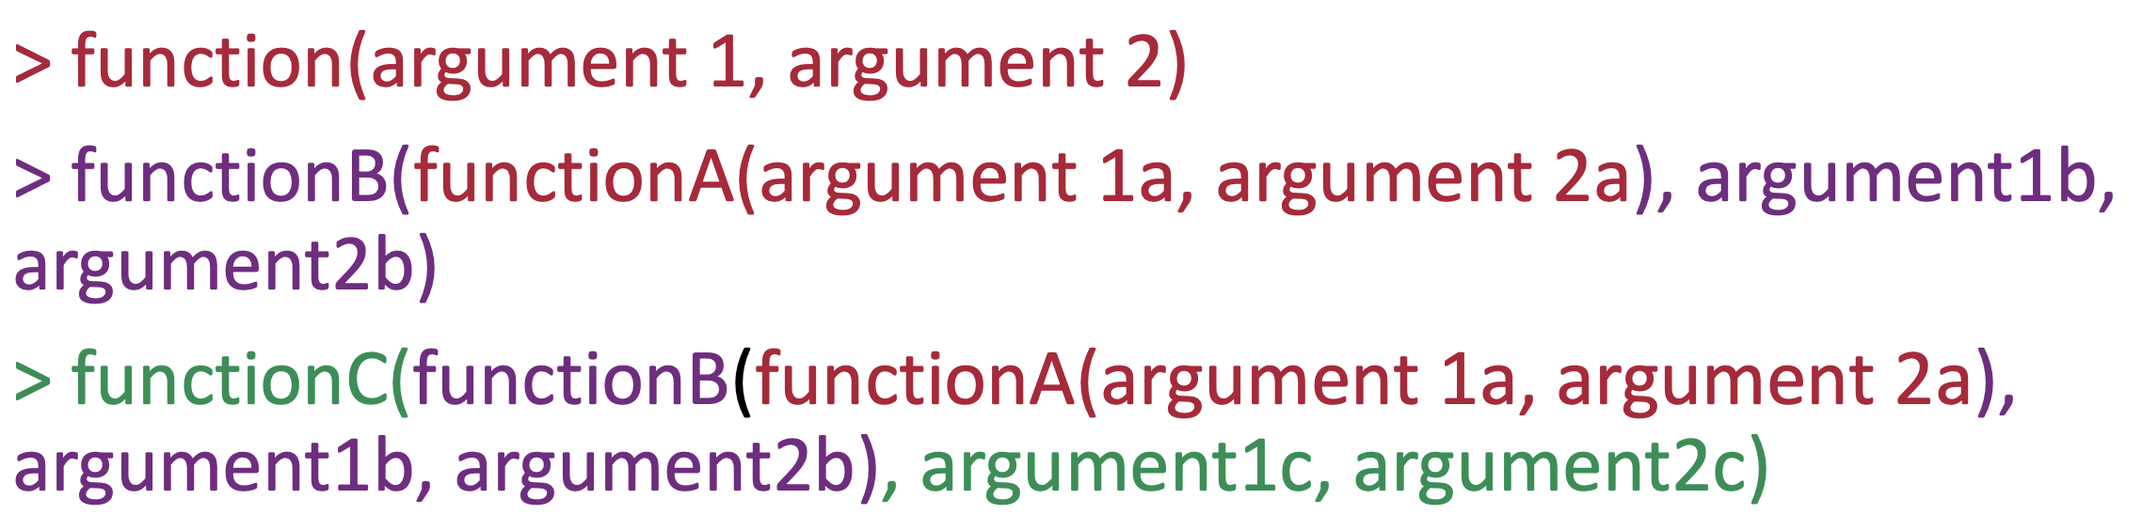
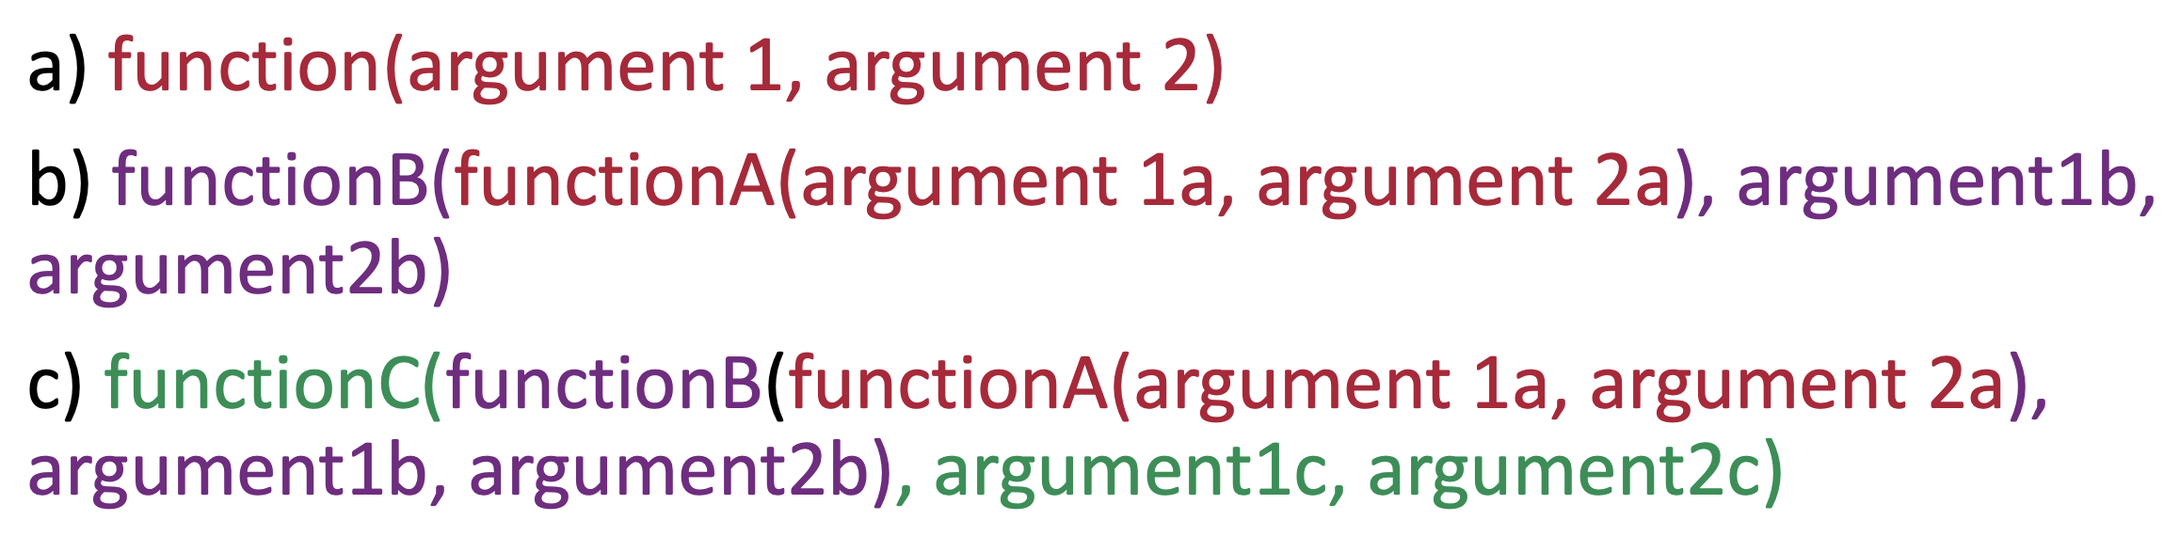
Minor improvements to Ch. 7

diff --git a/docs/7_VariablesFunctions.html b/docs/7_VariablesFunctions.html
@@ -253,7 +253,7 @@ div.csl-indent {
     <h2 id="toc-title">Table of contents</h2>
    
   <ul>
-  <li><a href="#inspecting-tabular-data" id="toc-inspecting-tabular-data" class="nav-link active" data-scroll-target="#inspecting-tabular-data"><span class="header-section-number">7.1</span> Inspecting tabular data</a></li>
+  <li><a href="#inspecting-a-dataset" id="toc-inspecting-a-dataset" class="nav-link active" data-scroll-target="#inspecting-a-dataset"><span class="header-section-number">7.1</span> Inspecting a dataset</a></li>
   <li><a href="#variables-and-r-data-types" id="toc-variables-and-r-data-types" class="nav-link" data-scroll-target="#variables-and-r-data-types"><span class="header-section-number">7.2</span> Variables and <code>R</code> data types</a></li>
   <li><a href="#accessing-individual-data-points" id="toc-accessing-individual-data-points" class="nav-link" data-scroll-target="#accessing-individual-data-points"><span class="header-section-number">7.3</span> Accessing individual data points</a></li>
   <li><a href="#using-built-in-r-functions" id="toc-using-built-in-r-functions" class="nav-link" data-scroll-target="#using-built-in-r-functions"><span class="header-section-number">7.4</span> Using built-in <code>R</code> functions</a>
@@ -300,29 +300,29 @@ Prerequisites
 </div>
 </div>
 <div class="callout-body-container callout-body">
-<p>In this chapter and the following, all analyses are based on data from:</p>
+<p>In this chapter and the following chapters, all analyses are based on data from:</p>
 <blockquote class="blockquote">
 <p>Dąbrowska, Ewa. 2019. Experience, Aptitude, and Individual Differences in Linguistic Attainment: A Comparison of Native and Nonnative Speakers. Language Learning 69(S1). 72–100. <a href="https://doi.org/10.1111/lang.12323" class="uri">https://doi.org/10.1111/lang.12323</a>.</p>
 </blockquote>
-<p>You will only be able to reproduce the analyses and answer the quiz questions from this chapter if you have successfully imported the two data sets from <span class="citation" data-cites="DabrowskaExperienceAptitudeIndividual2019">Dąbrowska (<a href="99_references.html#ref-DabrowskaExperienceAptitudeIndividual2019" role="doc-biblioref">2019</a>)</span>. To import the data, follow the instructions from <a href="6_ImpoRtingData.html#sec-RProject" class="quarto-xref"><span>Section 6.3</span></a> to <a href="6_ImpoRtingData.html#sec-ImportingDataCSV" class="quarto-xref"><span>Section 6.5</span></a> and complete Task 1.</p>
+<p>You will only be able to reproduce the analyses and answer the quiz questions from this chapter if you have successfully imported the two datasets from <span class="citation" data-cites="DabrowskaExperienceAptitudeIndividual2019">Dąbrowska (<a href="99_references.html#ref-DabrowskaExperienceAptitudeIndividual2019" role="doc-biblioref">2019</a>)</span>. To import the datasets, follow the instructions from <a href="6_ImpoRtingData.html#sec-RProject" class="quarto-xref"><span>Section 6.3</span></a> to <a href="6_ImpoRtingData.html#sec-ImportingDataCSV" class="quarto-xref"><span>Section 6.5</span></a> and complete Task 1.</p>
 </div>
 </div>
 <section id="chapter-overview" class="level4 unnumbered">
 <h4 class="unnumbered anchored" data-anchor-id="chapter-overview"><strong>Chapter overview</strong></h4>
 <p>In this chapter, you will learn how to:</p>
 <ul>
-<li>Use base <code>R</code> functions to inspect tabular data</li>
-<li>Inspect and access individual variables</li>
-<li>Access individual data points</li>
-<li>Use simple base <code>R</code> functions to inspect variables</li>
-<li>Change the default arguments of functions</li>
+<li>Use base <code>R</code> functions to inspect a dataset</li>
+<li>Inspect and access individual variables from a dataset</li>
+<li>Access individual data points from a dataset</li>
+<li>Use simple base <code>R</code> functions to describe variables</li>
+<li>Look up and change the default arguments of functions</li>
 <li>Combine functions using two methods</li>
 </ul>
 </section>
-<section id="inspecting-tabular-data" class="level2" data-number="7.1">
-<h2 data-number="7.1" class="anchored" data-anchor-id="inspecting-tabular-data"><span class="header-section-number">7.1</span> Inspecting tabular data</h2>
-<p>In <a href="6_ImpoRtingData.html#sec-ImportingErrors" class="quarto-xref"><span>Section 6.6</span></a>, we saw that we can use the <code>View()</code> function to display tabular data in a format that resembles that of a spreadsheet programme.</p>
-<p>This particular dataset is both long and wide so you will need to scroll in both directions to view all the data. RStudio also provides a filter option and a search tool (see <a href="#fig-ViewData1" class="quarto-xref">Figure&nbsp;<span>7.1</span></a>). Note that both can only be used for visual inspection. You cannot alter the dataset in any way using these tools.</p>
+<section id="inspecting-a-dataset" class="level2" data-number="7.1">
+<h2 data-number="7.1" class="anchored" data-anchor-id="inspecting-a-dataset"><span class="header-section-number">7.1</span> Inspecting a dataset</h2>
+<p>In <a href="6_ImpoRtingData.html#sec-ImportingErrors" class="quarto-xref"><span>Section 6.6</span></a>, we saw that we can use the <code>View()</code> function to display tabular data in a format that resembles that of a spreadsheet programme (see <a href="#fig-ViewData1" class="quarto-xref">Figure&nbsp;<span>7.1</span></a>).</p>
+<p>The two datasets from <span class="citation" data-cites="DabrowskaExperienceAptitudeIndividual2019">Dąbrowska (<a href="99_references.html#ref-DabrowskaExperienceAptitudeIndividual2019" role="doc-biblioref">2019</a>)</span> are both long and wide so you will need to scroll in both directions to view all the data. RStudio also provides a filter option and a search tool (see <a href="#fig-ViewData1" class="quarto-xref">Figure&nbsp;<span>7.1</span></a>). Note that both of these tools can only be used to visually inspect the data. You cannot alter the dataset in any way using these tools (and that’s a good thing!).</p>
 <div class="cell">
 <div class="sourceCode cell-code" id="cb1"><pre class="sourceCode r code-with-copy"><code class="sourceCode r"><span id="cb1-1"><a href="#cb1-1" aria-hidden="true" tabindex="-1"></a><span class="fu">View</span>(L1.data)</span></code><button title="Copy to Clipboard" class="code-copy-button"><i class="bi"></i></button></pre></div>
 </div>
@@ -371,7 +371,7 @@ Quiz time!
 <p>&nbsp;</p>
 </div>
 </div>
-<p>In practice, it is often useful to printing subsets of a dataset in the Console to quickly check the sanity of the data. To do so, we can use the function <code>head()</code> that prints the first six rows of tabular data.</p>
+<p>In practice, it is often useful to printing subsets of a dataset in the Console to quickly check the sanity of the data. To do so, we can use the function <code>head()</code> that prints the first six rows of a tabular dataset.</p>
 <div class="cell">
 <div class="sourceCode cell-code" id="cb2"><pre class="sourceCode r code-with-copy"><code class="sourceCode r"><span id="cb2-1"><a href="#cb2-1" aria-hidden="true" tabindex="-1"></a><span class="fu">head</span>(L1.data)</span></code><button title="Copy to Clipboard" class="code-copy-button"><i class="bi"></i></button></pre></div>
 <div class="cell-output-display">
@@ -693,7 +693,7 @@ Quiz time!
 </section>
 <section id="variables-and-r-data-types" class="level2" data-number="7.2">
 <h2 data-number="7.2" class="anchored" data-anchor-id="variables-and-r-data-types"><span class="header-section-number">7.2</span> Variables and <code>R</code> data types</h2>
-<p>In tidy data formats (see **), each row corresponds to one observation and each column to a variable. Each cell, therefore, corresponds to a single data point, which is the value of a specific variable (column) for a specific observation (row). As we will see in the following chapters, this data structure allows for efficient and intuitive data manipulation, analysis, and visualisation.</p>
+<p>In tidy data formats (see Chapter 8), each row corresponds to one observation and each column to a variable. Each cell, therefore, corresponds to a single data point, which is the value of a specific variable (column) for a specific observation (row). As we will see in the following chapters, this data structure allows for efficient and intuitive data manipulation, analysis, and visualisation.</p>
 <p>The <code>names()</code> functions returns the names of all of the columns of a data frame. Given that the datasets from <span class="citation" data-cites="DabrowskaExperienceAptitudeIndividual2019">Dąbrowska (<a href="99_references.html#ref-DabrowskaExperienceAptitudeIndividual2019" role="doc-biblioref">2019</a>)</span> are ‘tidy’, this means that <code>names(L1.data)</code> returns a list of all the variables in the L1 dataset.</p>
 <div class="cell">
 <div class="sourceCode cell-code" id="cb3"><pre class="sourceCode r code-with-copy"><code class="sourceCode r"><span id="cb3-1"><a href="#cb3-1" aria-hidden="true" tabindex="-1"></a><span class="fu">names</span>(L1.data)</span></code><button title="Copy to Clipboard" class="code-copy-button"><i class="bi"></i></button></pre></div>
@@ -1334,13 +1334,13 @@ Quiz time!
 </div>
 <p>In this example, the argument <code>digits = 2</code> belongs to the outer function <code>round()</code>; hence it must be placed within the outer set of brackets.</p>
 <p>In theory, you can nest as many functions as you like, but things can get quite chaotic after more than a couple of functions. You need to make sure that you can trace back which arguments and which brackets belong to which function (see <a href="#fig-NestedFunctions" class="quarto-xref">Figure&nbsp;<span>7.2</span></a>).</p>
-<div id="fig-NestedFunctions" class="quarto-figure quarto-figure-center quarto-float anchored" alt="The text reads like this: function(argument 1, argument 2) functionB(functionA(argument 1a, argument 2a), argument1b, argument2b) functionC(functionB(functionA(argument 1a, argument 2a), argument1b, argument2b), argument1c, argument2c).">
+<div id="fig-NestedFunctions" class="quarto-figure quarto-figure-center quarto-float anchored" alt="The pseudo code reads like this a) function(argument 1, argument 2), b) functionB(functionA(argument 1a, argument 2a), argument1b, argument2b), c) functionC(functionB(functionA(argument 1a, argument 2a), argument1b, argument2b), argument1c, argument2c).">
 <figure class="quarto-float quarto-float-fig figure">
 <div aria-describedby="fig-NestedFunctions-caption-0ceaefa1-69ba-4598-a22c-09a6ac19f8ca">
-<a href="images/NestedFunctions.png" class="lightbox" data-gallery="quarto-lightbox-gallery-2" title="Figure&nbsp;7.2: A schematic representations of one function, two nested functions and three nested functions, each with two arguments"><img src="images/NestedFunctions.png" class="img-fluid figure-img" alt="The text reads like this: function(argument 1, argument 2) functionB(functionA(argument 1a, argument 2a), argument1b, argument2b) functionC(functionB(functionA(argument 1a, argument 2a), argument1b, argument2b), argument1c, argument2c)."></a>
+<a href="images/NestedFunctions.png" class="lightbox" data-gallery="quarto-lightbox-gallery-2" title="Figure&nbsp;7.2: A schematic representations of a) one function with two arguments, b) two nested functions each with two arguments, and c) three nested functions each with two arguments"><img src="images/NestedFunctions.png" class="img-fluid figure-img" alt="The pseudo code reads like this a) function(argument 1, argument 2), b) functionB(functionA(argument 1a, argument 2a), argument1b, argument2b), c) functionC(functionB(functionA(argument 1a, argument 2a), argument1b, argument2b), argument1c, argument2c)."></a>
 </div>
 <figcaption class="quarto-float-caption-bottom quarto-float-caption quarto-float-fig" id="fig-NestedFunctions-caption-0ceaefa1-69ba-4598-a22c-09a6ac19f8ca">
-Figure&nbsp;7.2: A schematic representations of one function, two nested functions and three nested functions, each with two arguments
+Figure&nbsp;7.2: A schematic representations of a) one function with two arguments, b) two nested functions each with two arguments, and c) three nested functions each with two arguments
 </figcaption>
 </figure>
 </div>
@@ -1354,18 +1354,20 @@ Time to think!
 </div>
 </div>
 <div class="callout-body-container callout-body">
-<p>Consider the two sets of nested functions below. Without running them, can you tell which of the two lines of code will output the square root of L1 participant’s average age to two decimal places?</p>
+<p>Consider the three lines of code below. Without running them, can you tell which of the three lines of code will output the square root of L1 participant’s average age to two decimal places?</p>
 <div class="cell">
-<div class="sourceCode cell-code" id="cb54"><pre class="sourceCode r code-with-copy"><code class="sourceCode r"><span id="cb54-1"><a href="#cb54-1" aria-hidden="true" tabindex="-1"></a><span class="fu">sqrt</span>(<span class="fu">round</span>(<span class="fu">mean</span>(L1.Age), <span class="at">digits =</span> <span class="dv">2</span>))</span>
-<span id="cb54-2"><a href="#cb54-2" aria-hidden="true" tabindex="-1"></a><span class="fu">round</span>(<span class="fu">sqrt</span>(<span class="fu">mean</span>(L1.Age)), <span class="at">digits =</span> <span class="dv">2</span>)</span></code><button title="Copy to Clipboard" class="code-copy-button"><i class="bi"></i></button></pre></div>
+<div class="sourceCode cell-code" id="cb54"><pre class="sourceCode r code-with-copy"><code class="sourceCode r"><span id="cb54-1"><a href="#cb54-1" aria-hidden="true" tabindex="-1"></a><span class="dv">1</span><span class="er">)</span> <span class="fu">round</span>(<span class="fu">sqrt</span>(<span class="fu">mean</span>(L1.Age) <span class="at">digits =</span> <span class="dv">2</span>))</span>
+<span id="cb54-2"><a href="#cb54-2" aria-hidden="true" tabindex="-1"></a><span class="dv">2</span><span class="er">)</span> <span class="fu">sqrt</span>(<span class="fu">round</span>(<span class="fu">mean</span>(L1.Age), <span class="at">digits =</span> <span class="dv">2</span>))</span>
+<span id="cb54-3"><a href="#cb54-3" aria-hidden="true" tabindex="-1"></a><span class="dv">3</span><span class="er">)</span> <span class="fu">round</span>(<span class="fu">sqrt</span>(<span class="fu">mean</span>(L1.Age)), <span class="at">digits =</span> <span class="dv">2</span>)</span></code><button title="Copy to Clipboard" class="code-copy-button"><i class="bi"></i></button></pre></div>
 </div>
-<p>The first line actually outputs <code>6.126989</code>, which has more than two decimal places! This is because <code>R</code> interprets the functions from the inside out: first, it calculates the mean value, then it rounds that off to two decimal places, then this outputs the square root of that value. The second line, in contrast, does the rounding operation as the last step. Note that, in these two lines of code, the brackets around the argument <code>digits = 2</code> are also located in different places. It is very easy to make bracketing errors when writing code and especially so when nesting functions (see <a href="#fig-NestedFunctions" class="quarto-xref">Figure&nbsp;<span>7.2</span></a>).</p>
+<p>The first line will return an “unexpected symbol” error because it is missing a comma before the argument <code>digits = 2</code>. The second line actually outputs <code>6.126989</code>, which has more than two decimal places! This is because <code>R</code> interprets the functions from the inside out: first, it calculates the mean value, then it rounds that off to two decimal places, and only then does it compute the square root of that rounded off value. The third line, in contrast, does the rounding operation as the last step. Note that, in the two lines of code that do not produce an error, the brackets around the argument <code>digits = 2</code> are also located in different places.</p>
+<p>It is very easy to make bracketing errors when writing code and especially so when nesting functions (see <a href="#fig-NestedFunctions" class="quarto-xref">Figure&nbsp;<span>7.2</span></a>). Watch your commas and brackets (see also <a href="5_GettingStaRted.html#sec-Errors" class="quarto-xref"><span>Section 5.6</span></a>)!</p>
 </div>
 </div>
 </section>
 <section id="piped-functions" class="level3" data-number="7.5.2">
 <h3 data-number="7.5.2" class="anchored" data-anchor-id="piped-functions"><span class="header-section-number">7.5.2</span> Piped Functions</h3>
-<p>If you found all these brackets overwhelming: fear not! There is a second method for combining functions, which is more convenient and much easier to decipher. It involves the pipe operator, which in <code>R</code> is <code>|&gt;</code>.<a href="#fn1" class="footnote-ref" id="fnref1" role="doc-noteref"><sup>1</sup></a></p>
+<p>If you found all these brackets overwhelming: fear not! There is a second method for combining functions in <code>R</code>, which is often more convenient and almost always easier to decipher. It involves the pipe operator, which in <code>R</code> is <code>|&gt;</code>.<a href="#fn1" class="footnote-ref" id="fnref1" role="doc-noteref"><sup>1</sup></a></p>
 <p>The <code>|&gt;</code> operator passes the output of one function on to the first argument of the next function. This allows us to chain multiple functions together in a much more intuitive way.</p>
 <div class="cell">
 <div class="sourceCode cell-code" id="cb55"><pre class="sourceCode r code-with-copy"><code class="sourceCode r"><span id="cb55-1"><a href="#cb55-1" aria-hidden="true" tabindex="-1"></a>L1.Age <span class="sc">|&gt;</span> </span>
@@ -1386,13 +1388,13 @@ Time to think!
 </div>
 </div>
 <p>Like many of the relational operators we saw in <a href="5_GettingStaRted.html#sec-RelationalOperators" class="quarto-xref"><span>Section 5.5</span></a>, the <code>R</code> pipe is a combination of two symbols, the computer pipe symbol <code>|</code> and the right angle bracket <code>&gt;</code>. Don’t worry if you’re not sure where these two symbols are on your keyboard as RStudio has a handy shortcut for you: <code>Ctrl/Cmd + Shift + M</code><a href="#fn2" class="footnote-ref" id="fnref2" role="doc-noteref"><sup>2</sup></a> (see <a href="#fig-Pipes" class="quarto-xref">Figure&nbsp;<span>7.3</span></a>). I strongly recommend that you write this shortcut on a prominent post-it and learn it asap, as you will need it a lot when you are working in <code>R</code>!</p>
-<div id="fig-Pipes" class="quarto-figure quarto-figure-center quarto-float anchored">
+<div id="fig-Pipes" class="quarto-figure quarto-figure-center quarto-float anchored" alt="Collation of two images: One is a famous painting by René Magritte of a pipe with the caption &quot;Ceci n'est pas une pipe&quot; [This is not a pipe in French], and another, in the same style and colours, with the native R pipe operator and its keyboard shortcut with the caption &quot;Ceci n'est pas une pipe&quot; [This is a pipe in French].">
 <figure class="quarto-float quarto-float-fig figure">
 <div aria-describedby="fig-Pipes-caption-0ceaefa1-69ba-4598-a22c-09a6ac19f8ca">
-<a href="images/NativeRPipe.png" class="lightbox" data-gallery="quarto-lightbox-gallery-3" title="Figure&nbsp;7.3: Remix of Henri Matisse’s “La Trahison des images” (1928-1929) with the native R pipe and its RStudio shortcut (based on an image from Wikiart.org). This image is licensed under CC-BY."><img src="images/NativeRPipe.png" class="img-fluid figure-img"></a>
+<a href="images/NativeRPipe.png" class="lightbox" data-gallery="quarto-lightbox-gallery-3" title="Figure&nbsp;7.3: Remix of René Magritte’s “La Trahison des images” (1928-1929) with the native R pipe and its RStudio shortcut (based on an image from Wikiart.org). This image is licensed under CC-BY."><img src="images/NativeRPipe.png" class="img-fluid figure-img" alt="Collation of two images: One is a famous painting by René Magritte of a pipe with the caption &quot;Ceci n'est pas une pipe&quot; [This is not a pipe in French], and another, in the same style and colours, with the native R pipe operator and its keyboard shortcut with the caption &quot;Ceci n'est pas une pipe&quot; [This is a pipe in French]."></a>
 </div>
 <figcaption class="quarto-float-caption-bottom quarto-float-caption quarto-float-fig" id="fig-Pipes-caption-0ceaefa1-69ba-4598-a22c-09a6ac19f8ca">
-Figure&nbsp;7.3: Remix of Henri Matisse’s “La Trahison des images” (1928-1929) with the native <code>R</code> pipe and its RStudio shortcut (based on an image from <a href="https://www.wikiart.org/en/rene-magritte/the-treachery-of-images-this-is-not-a-pipe-1948">Wikiart.org</a>). This image is licensed under <a href="https://creativecommons.org/licenses/by/4.0/">CC-BY</a><a href="#fn3" class="footnote-ref" id="fnref3" role="doc-noteref"><sup>3</sup></a>.
+Figure&nbsp;7.3: Remix of René Magritte’s “La Trahison des images” (1928-1929) with the native <code>R</code> pipe and its RStudio shortcut (based on an image from <a href="https://www.wikiart.org/en/rene-magritte/the-treachery-of-images-this-is-not-a-pipe-1948">Wikiart.org</a>). This image is licensed under <a href="https://creativecommons.org/licenses/by/4.0/">CC-BY</a><a href="#fn3" class="footnote-ref" id="fnref3" role="doc-noteref"><sup>3</sup></a>.
 </figcaption>
 </figure>
 </div>
@@ -2105,7 +2107,7 @@ window.document.addEventListener("DOMContentLoaded", function (event) {
 </div>
   </div>
 </footer>
-<script>var lightboxQuarto = GLightbox({"selector":".lightbox","openEffect":"zoom","loop":false,"closeEffect":"zoom","descPosition":"bottom"});
+<script>var lightboxQuarto = GLightbox({"loop":false,"closeEffect":"zoom","descPosition":"bottom","selector":".lightbox","openEffect":"zoom"});
 window.onload = () => {
   lightboxQuarto.on('slide_before_load', (data) => {
     const { slideIndex, slideNode, slideConfig, player, trigger } = data;

diff --git a/docs/4_InstallingR.html b/docs/4_InstallingR.html
@@ -337,7 +337,7 @@ Figure&nbsp;4.1: “<a href="https://www.flickr.com/photos/47264866@N00/94551410
 </div>
 </blockquote>
 <p>Last but not least, in choosing to learn <code>R</code>, you are entering a vibrant community of users. As an open-source programming environment, <code>R</code> is the product of many different people’s contributions. Everyday, new packages, functions, and resources are being developed, improved, and shared with the community. Given that <code>R</code> has evolved into one of the most popular languages for scientific programming <span class="citation" data-cites="WinterStatisticsLinguistsIntroduction2019">(and has become “the de facto standard in the language sciences” <a href="99_references.html#ref-WinterStatisticsLinguistsIntroduction2019" role="doc-biblioref">Winter 2019: xiii</a>)</span>, many of these have been created by scientists and are particularly well-suited to research workflows. Moreover, the <code>R</code> community is known for being welcoming, supportive, and inclusive (sadly, the same cannot be said of all communities in the computing world). This is reflected in the strong presence of many community-led initiatives such as <a href="https://rladies.org/">RLadies</a> and <a href="https://rainbowr.netlify.app/">RainbowR</a>, which encourage under-represented groups to participate in and contribute to the <code>R</code> community. 🤗</p>
-<div id="fig-RLadies" class="quarto-figure quarto-figure-center quarto-float anchored" alt="Hex sticker logo showing the R logo painted in the colours of the rainbow and the transgender flags" data-fig-align="center">
+<div id="fig-RLadies" class="quarto-figure quarto-figure-center quarto-float anchored" data-fig-align="center" alt="Hex sticker logo showing the R logo painted in the colours of the rainbow and the transgender flags">
 <figure class="quarto-float quarto-float-fig figure">
 <div aria-describedby="fig-RLadies-caption-0ceaefa1-69ba-4598-a22c-09a6ac19f8ca">
 <a href="images/rladiesrp_logo.png" class="lightbox" data-gallery="quarto-lightbox-gallery-2" title="Figure&nbsp;4.2: Logo of the RLadies Ribeirão Preto meet-up group, one of many RLadies chapters."><img src="images/rladiesrp_logo.png" class="img-fluid quarto-figure quarto-figure-center figure-img" alt="Hex sticker logo showing the R logo painted in the colours of the rainbow and the transgender flags" width="250"></a>
@@ -1642,7 +1642,7 @@ window.document.addEventListener("DOMContentLoaded", function (event) {
 </div>
   </div>
 </footer>
-<script>var lightboxQuarto = GLightbox({"openEffect":"zoom","closeEffect":"zoom","descPosition":"bottom","selector":".lightbox","loop":false});
+<script>var lightboxQuarto = GLightbox({"loop":false,"closeEffect":"zoom","descPosition":"bottom","selector":".lightbox","openEffect":"zoom"});
 window.onload = () => {
   lightboxQuarto.on('slide_before_load', (data) => {
     const { slideIndex, slideNode, slideConfig, player, trigger } = data;

diff --git a/docs/index.html b/docs/index.html
@@ -7,7 +7,7 @@
 <meta name="viewport" content="width=device-width, initial-scale=1.0, user-scalable=yes">
 
 <meta name="author" content="Elen Le Foll">
-<meta name="dcterms.date" content="2024-08-16">
+<meta name="dcterms.date" content="2024-08-17">
 
 <title>Data Analysis for the Language Sciences</title>
 <style>
@@ -219,7 +219,7 @@ div.csl-indent {
     <h2 id="toc-title">Table of contents</h2>
    
   <ul>
-  <li><a href="#sec-Preface" id="toc-sec-Preface" class="nav-link active" data-scroll-target="#sec-Preface">Preface</a>
+  <li><a href="#preface" id="toc-preface" class="nav-link active" data-scroll-target="#preface">Preface</a>
   <ul class="collapse">
   <li><a href="#what-is-this-book-about" id="toc-what-is-this-book-about" class="nav-link" data-scroll-target="#what-is-this-book-about">What is this book about?</a></li>
   <li><a href="#who-is-this-book-for" id="toc-who-is-this-book-for" class="nav-link" data-scroll-target="#who-is-this-book-for">Who is this book for?</a></li>
@@ -253,7 +253,7 @@ div.csl-indent {
     <div>
     <div class="quarto-title-meta-heading">Published</div>
     <div class="quarto-title-meta-contents">
-      <p class="date">August 16, 2024</p>
+      <p class="date">August 17, 2024</p>
     </div>
   </div>
   
@@ -265,7 +265,7 @@ div.csl-indent {
 </header>
 
 
-<section id="sec-Preface" class="level1 unnumbered">
+<section id="preface" class="level1 unnumbered">
 <h1 class="unnumbered">Preface</h1>
 <div class="callout callout-style-default callout-warning callout-titled">
 <div class="callout-header d-flex align-content-center">
@@ -945,7 +945,7 @@ window.document.addEventListener("DOMContentLoaded", function (event) {
 </div>
   </div>
 </footer>
-<script>var lightboxQuarto = GLightbox({"closeEffect":"zoom","selector":".lightbox","openEffect":"zoom","loop":false,"descPosition":"bottom"});
+<script>var lightboxQuarto = GLightbox({"descPosition":"bottom","openEffect":"zoom","selector":".lightbox","closeEffect":"zoom","loop":false});
 window.onload = () => {
   lightboxQuarto.on('slide_before_load', (data) => {
     const { slideIndex, slideNode, slideConfig, player, trigger } = data;

diff --git a/docs/1_OpenScholarship.html b/docs/1_OpenScholarship.html
@@ -460,7 +460,7 @@ Going further
 <li><strong>R</strong>emix – the right to combine the original or revised content with other open materials to create something new.</li>
 <li><strong>R</strong>edistribute – the right to share copies of the original content, any revisions, and remixes with others (e.g., give a copy of the content to a friend).</li>
 </ol>
-<div id="fig-OER" class="quarto-figure quarto-figure-center quarto-float anchored" alt="Sketchnote Grafik zu Open Educational Resources" data-fig-align="center">
+<div id="fig-OER" class="quarto-figure quarto-figure-center quarto-float anchored" data-fig-align="center" alt="Sketchnote Grafik zu Open Educational Resources">
 <figure class="quarto-float quarto-float-fig figure">
 <div aria-describedby="fig-OER-caption-0ceaefa1-69ba-4598-a22c-09a6ac19f8ca">
 <a href="images/oer.jpg" class="lightbox" data-gallery="quarto-lightbox-gallery-2" title="Figure&nbsp;1.1: OER sketch note by Yvonne Stry"><img src="images/oer.jpg" class="img-fluid quarto-figure quarto-figure-center figure-img" alt="Sketchnote Grafik zu Open Educational Resources"></a>
@@ -1186,7 +1186,7 @@ window.document.addEventListener("DOMContentLoaded", function (event) {
 </div>
   </div>
 </footer>
-<script>var lightboxQuarto = GLightbox({"selector":".lightbox","closeEffect":"zoom","openEffect":"zoom","loop":false,"descPosition":"bottom"});
+<script>var lightboxQuarto = GLightbox({"selector":".lightbox","descPosition":"bottom","loop":false,"closeEffect":"zoom","openEffect":"zoom"});
 window.onload = () => {
   lightboxQuarto.on('slide_before_load', (data) => {
     const { slideIndex, slideNode, slideConfig, player, trigger } = data;

diff --git a/docs/A_FurtherResources.html b/docs/A_FurtherResources.html
@@ -233,7 +233,7 @@ Warning
 </div>
 </div>
 <div class="callout-body-container callout-body">
-<p>As with the rest of this textbook (see <span class="quarto-unresolved-ref">?sec-Preface</span>), this list is very much <strong>work in progress</strong>. Full bibliographic references will be added in due course. Do drop me a line to let me know about any great resources that I have missed!</p>
+<p>As with the rest of this textbook (see <span class="quarto-unresolved-ref">?sec-WiP</span>), this list is very much <strong>work in progress</strong>. Full bibliographic references will be added in due course. Do drop me a line to let me know about any great resources that I have missed!</p>
 </div>
 </div>
 <section id="recommended-resources-specific-to-the-language-sciences" class="level2" data-number="A.1">

diff --git a/docs/2_Data.html b/docs/2_Data.html
@@ -1880,7 +1880,7 @@ window.document.addEventListener("DOMContentLoaded", function (event) {
 </div>
   </div>
 </footer>
-<script>var lightboxQuarto = GLightbox({"descPosition":"bottom","openEffect":"zoom","selector":".lightbox","loop":false,"closeEffect":"zoom"});
+<script>var lightboxQuarto = GLightbox({"descPosition":"bottom","selector":".lightbox","closeEffect":"zoom","openEffect":"zoom","loop":false});
 window.onload = () => {
   lightboxQuarto.on('slide_before_load', (data) => {
     const { slideIndex, slideNode, slideConfig, player, trigger } = data;

diff --git a/docs/3_DataManagement.html b/docs/3_DataManagement.html
@@ -1364,7 +1364,7 @@ window.document.addEventListener("DOMContentLoaded", function (event) {
 </div>
   </div>
 </footer>
-<script>var lightboxQuarto = GLightbox({"loop":false,"descPosition":"bottom","selector":".lightbox","openEffect":"zoom","closeEffect":"zoom"});
+<script>var lightboxQuarto = GLightbox({"loop":false,"selector":".lightbox","closeEffect":"zoom","descPosition":"bottom","openEffect":"zoom"});
 window.onload = () => {
   lightboxQuarto.on('slide_before_load', (data) => {
     const { slideIndex, slideNode, slideConfig, player, trigger } = data;

diff --git a/docs/5_GettingStaRted.html b/docs/5_GettingStaRted.html
@@ -1548,7 +1548,7 @@ window.document.addEventListener("DOMContentLoaded", function (event) {
 </div>
   </div>
 </footer>
-<script>var lightboxQuarto = GLightbox({"selector":".lightbox","openEffect":"zoom","descPosition":"bottom","loop":false,"closeEffect":"zoom"});
+<script>var lightboxQuarto = GLightbox({"selector":".lightbox","loop":false,"descPosition":"bottom","closeEffect":"zoom","openEffect":"zoom"});
 window.onload = () => {
   lightboxQuarto.on('slide_before_load', (data) => {
     const { slideIndex, slideNode, slideConfig, player, trigger } = data;

diff --git a/docs/6_ImpoRtingData.html b/docs/6_ImpoRtingData.html
@@ -2007,7 +2007,7 @@ window.document.addEventListener("DOMContentLoaded", function (event) {
 </div>
   </div>
 </footer>
-<script>var lightboxQuarto = GLightbox({"loop":false,"descPosition":"bottom","selector":".lightbox","openEffect":"zoom","closeEffect":"zoom"});
+<script>var lightboxQuarto = GLightbox({"closeEffect":"zoom","openEffect":"zoom","selector":".lightbox","loop":false,"descPosition":"bottom"});
 window.onload = () => {
   lightboxQuarto.on('slide_before_load', (data) => {
     const { slideIndex, slideNode, slideConfig, player, trigger } = data;
